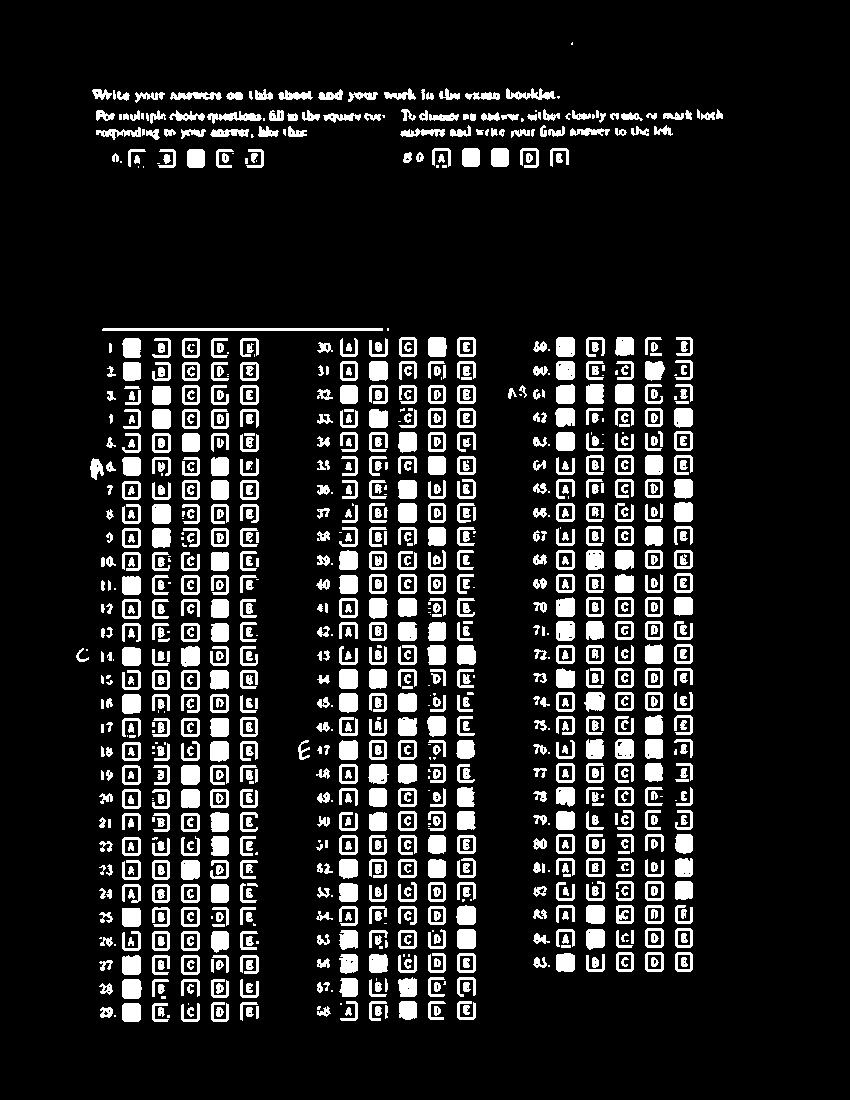
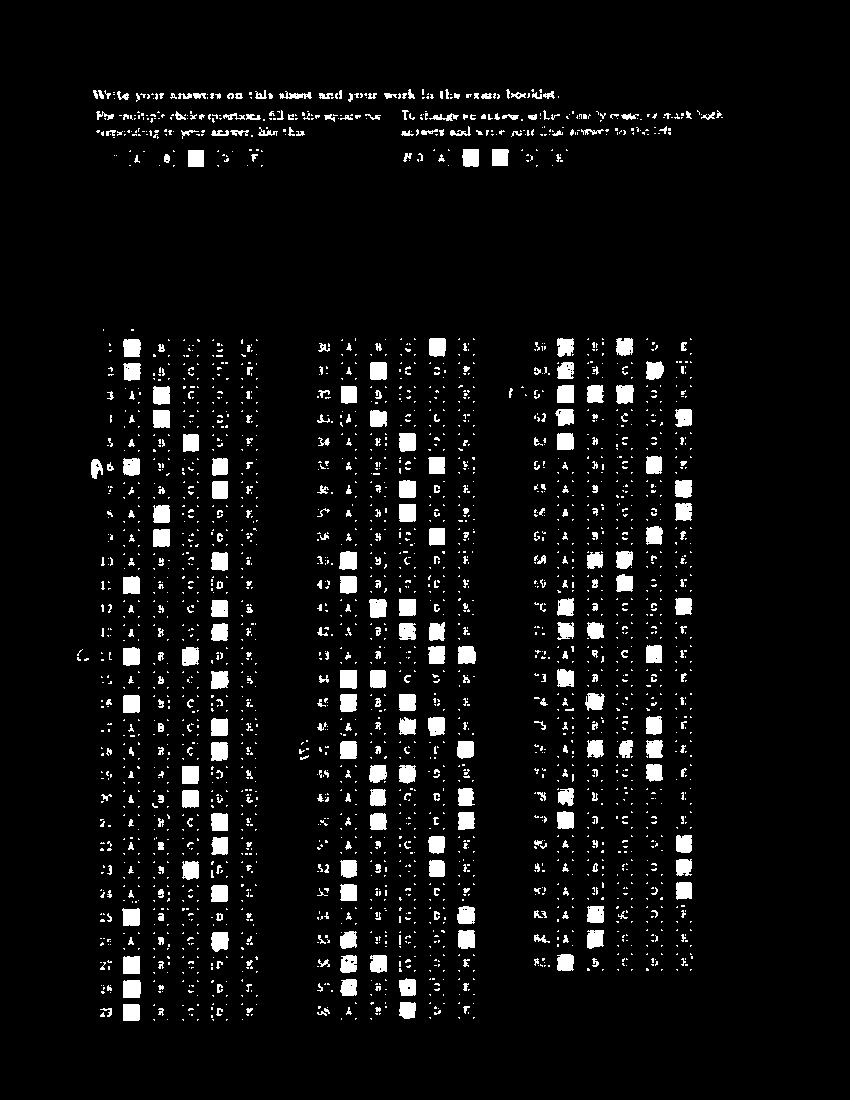
ah ha!

diff --git a/grade2.py b/grade2.py
@@ -77,7 +77,7 @@ def convolute(px,filter_matrix, width,height):
 def stark_difference(px_load, width, height):
     for x in range(width):
         for y in range(height):
-            px_load[x,y] = 255 if px_load[x,y] < 192 else 0
+            px_load[x,y] = 255 if px_load[x,y] < 160 else 0
     
 def grade(form, output_im, output_file):
     print("Importing "+form+"...")
@@ -104,6 +104,15 @@ def grade(form, output_im, output_file):
 
     # Starken the difference
     stark_difference(px2,width,height)
+
+    # find angle to rotate image
+    for y in range(1099,1000,-1): # length
+        row_total = sum([px2[x,y] for x in range(width)])
+        if row_total > 0:
+            print(x,y)
+            break
+        
+            
 
     # Final output image
     im2.save(output_im)
